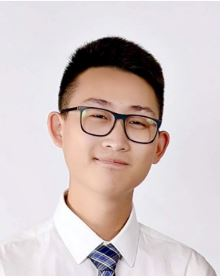
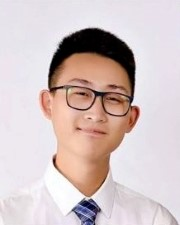
Add files via upload

diff --git a/index.html b/index.html
@@ -1,65 +1,59 @@
 <!DOCTYPE html>
-<html>
-
-<head>
-  <meta charset="utf-8">
-  <title>Angela Yu</title>
-  <link rel="stylesheet" href="css/styles.css">
-  <link href="https://fonts.googleapis.com/css?family=Merriweather|Montserrat|Sacramento" rel="stylesheet">
-  <link rel="icon" href="favicon.ico">
-</head>
-
-<body>
-  <div class="top-container">
-    <img class="top-cloud" src="images/cloud.png" alt="cloud">
-    <div class="title-text">
-      <h1>I'm Angela.</h1>
+<html lang="en" dir="ltr">
+  <head>
+    <meta charset="utf-8">
+    <title>Jonathan's Beautiful Website</title>
+    <link rel="stylesheet" href="css/styles.css">
+    <link rel="icon" href="favicon.ico">
+    <link href="https://fonts.googleapis.com/css2?family=Merriweather:wght@300&family=Montserrat&family=Sacramento&family=Satisfy&display=swap" rel="stylesheet">
+  </head>
+  <body>
+    <div class="top-container">
+      <img class="top-cloud" src="images/cloud.png" alt="cloud-img">
+      <h1>I'm Jonathan .</h1>
       <h2>a <span class="pro">pro</span>grammer.</h2>
+      <img class = "bottom-cloud" src="images/cloud.png" alt="cloud-img">
+      <img src="images/mountain.png" alt="mountain-img">
     </div>
-    <img class="bottom-cloud" src="images/cloud.png" alt="cloud">
-    <img class="mountain" src="images/mountain.png" alt="mountain-img">
-  </div>
-
-  <div class="middle-container">
-    <div class="profile">
-      <img src="images/angela.png" alt="angela-profile-img">
-      <h2>Hello.</h2>
-      <p class="intro">I am an iOS and Web Developer. I'm the founder and CTO of The App Brewery. I ❤ coffee and brew my own beers.</p>
-    </div>
-    <hr>
-    <div class="skills">
-      <h2>My Skills.</h2>
-      <div class="skill-row">
-        <img class="code-img" src="https://media.giphy.com/media/3p50WGyUqeU5W/giphy.gif" alt="code-img">
-
-        <h3>Design & Development</h3>
-        <p>I started learning to code when I was 12 years old because I wanted to make my own video games. Over time, I have gained a wealth of experience designing and developing mobile and web applications.</p>
-
+    <div class="middle-container">
+      <div class="profile">
+        <img class = "profile-img" src="images/linkedin-profile.JPG" alt="jonathan-picture">
+        <h2>Hello.</h2>
+        <p class= "intro-text">I am an alum from Texas A&M University '20. Current web developer-in-training with ambition for creative design!</p>
       </div>
-      <div class="skill-row">
-        <img class="chilli-img" src="images/chillies.png" alt="chillies-img">
-
-        <h3>Hot Wings Challenge</h3>
-        <p>But my best skill is actually in eating hot wings. I am the undisputed queen of hot wing challenges. Ghost Peppers and Carolina Reapers are my favourite snacks.</p>
-
+      <hr></hr>
+      <div class="skills">
+        <h2>My Skills.</h2>
+        <div class="skill-row">
+          <img class="code-img" src="https://media.giphy.com/media/SpopD7IQN2gK3qN4jS/giphy.gif" alt="code-img">
+          <h3>Full Stack Development</h3>
+          <p>My love for UI/UX design originated from when I owned my first smartphone back in high school, the Samsung Galaxy s3. I am now looking to challenge myself in the field of web development and design with the goal of developing web applications in the future. </p>
+        </div>
+        <div class="skill-row">
+          <img class="pep-pizza" src="images/pep-pizza.png" alt="pep-pizza">
+          <h3>My Greatest Passion</h3>
+          <p>Despite my passion for exploring the ins and outs of web development, there is perhaps nothing I feel stronger about than the dislike for pineapple on pizza. The only "yellow" attribute that belongs on a pizza is a hefty layer of fresh mozarella cheese. </p>
+        </div>
+      </div>
+      <hr>
+      <div class="contact-me">
+        <h2>Get In Touch</h2>
+        <h3>For any inquiries.</h3>
+        <p class= "end-text">Have a project I can work on? Or any tips/advice? I'm always looking for feedback and guidance on how I can improve!</p>
+        <a class="btn" href="mailto:jonguolee@gmail.com">CONTACT ME</a>
       </div>
     </div>
-    <hr>
-    <div class="contact-me">
-      <h2>Get In Touch</h2>
-      <h3>If you love hot wings as much as I do.</h3>
-      <p class="contact-message">Love hot wings as much as I do? Let's talk about how awesome they are! We can code while we eat hot wings!</p>
-      <a class="btn" href="mailto:ilove@hotwings.com">CONTACT ME</a>
+
+
+    <div class="bottom-container">
+      <a class="footer-link" href="https://www.linkedin.com/in/jonathan-lee-14374414a/">LinkedIn</a>
+      <a class="footer-link" href="https://www.facebook.com/jonathan.lee.31105/">Facebook</a>
+      <a class="footer-link" href="https://twitter.com/glee_jon">Twitter</a>
+      <p class="copyright">© 2020 Jonathan Lee.</p>
     </div>
-  </div>
 
 
-  <div class="bottom-container">
-    <a class="footer-link" href="https://www.linkedin.com/in/angela-yu-963a584b/">LinkedIn</a>
-    <a class="footer-link" href="https://twitter.com/yu_angela">Twitter</a>
-    <a class="footer-link" href="https://www.appbrewery.co/">Website</a>
-    <p class="copyright">© 2018 Angela Yu @ The App Brewery.</p>
-  </div>
-</body>
+    </div>
 
+  </body>
 </html>

diff --git a/css/styles.css b/css/styles.css
@@ -8,32 +8,24 @@ body {
 h1 {
   color: #66BFBF;
   font-size: 5.625rem;
-  margin: 50px auto 0 auto;
-  font-family: 'Sacramento', cursive;
+  /* 100% = 16px, 1em = 16px */
+  line-height: 2;
+  margin: 50px auto 0;
+  font-family: 'Satisfy', cursive;
 }
 
 h2 {
-  color: #66BFBF;
   font-family: 'Montserrat', sans-serif;
   font-size: 2.5rem;
+  line-height: 2;
+  color: #66BFBF;
   font-weight: normal;
-  padding-bottom: 10px;
 }
 
 h3 {
-  color: #11999E;
   font-family: 'Montserrat', sans-serif;
-}
-
-p {
-  line-height: 2;
-}
-
-hr {
-  border: dotted #EAF6F6 6px;
-  border-bottom: none;
-  width: 4%;
-  margin: 100px auto;
+  color: #11999E;
+  font-weight: normal;
 }
 
 a{
@@ -47,8 +39,15 @@ a:hover {
   color: #EAF6F6;
 }
 
+hr {
+  border: dotted #7e8a97 10px;
+  border-bottom: none;
+  width: 4%;
+  margin: 100px auto;
+}
+
 .top-container {
-  background-color: #E4F9F5;
+  background-color: #faf3dd;
   position: relative;
   padding-top: 100px;
 }
@@ -58,83 +57,100 @@ a:hover {
 }
 
 .bottom-container {
-  background-color: #66BFBF;
+  background-color: #faf3dd;
   padding: 50px 0 20px;
-}
-
-.skill-row {
-  width: 50%;
-  margin: 100px auto 100px auto;
-  text-align: left;
 }
 
 .pro {
   text-decoration: underline;
 }
 
-.intro {
-  width: 30%;
+.profile {
   margin: auto;
-}
-
-.contact-message {
-  width: 40%;
-  margin: 40px auto 60px;
-}
-
-.copyright {
-  color: #EAF6F6;
-  font-size: 0.75rem;
-  padding: 20px 0;
 }
 
 .top-cloud {
   position: absolute;
   right: 300px;
-  top: 40px;
+  top: 50px;
 }
 
 .bottom-cloud {
   position: absolute;
-  left: 250px;
+  left: 300px;
   bottom: 300px;
+}
+
+.profile-img {
+  border-radius: 50%;
+}
+
+.skill-row {
+  width: 50%;
+  margin: auto;
+  margin-top: 100px;
+  margin-bottom: 100px;
+  text-align: left;
+  line-height: 2;
 }
 
 .code-img {
   width: 25%;
+  border-radius: 50%;
   float: left;
   margin-right: 30px;
 }
 
-.chilli-img {
-  width: 25%;
+.pep-pizza {
+  width: 20%;
+  border-radius: 50%;
   float: right;
   margin-left: 30px;
 }
 
+.intro-text {
+  margin: auto;
+  width: 30%;
+}
+
+.end-text {
+  margin: 50px auto;
+  width: 30%;
+}
+
+.copyright {
+  font-size: 12px;
+  color: black;
+  padding: 20px 0;
+}
+
 .btn {
-  background: #11cdd4;
-  background-image: -webkit-linear-gradient(top, #11cdd4, #11999e);
-  background-image: -moz-linear-gradient(top, #11cdd4, #11999e);
-  background-image: -ms-linear-gradient(top, #11cdd4, #11999e);
-  background-image: -o-linear-gradient(top, #11cdd4, #11999e);
-  background-image: linear-gradient(to bottom, #11cdd4, #11999e);
-  -webkit-border-radius: 8;
-  -moz-border-radius: 8;
+  background: #33B9B9;
+  background-image: -webkit-linear-gradient(top, #33B9B9, #2097C7);
+  background-image: -moz-linear-gradient(top, #33B9B9, #2097C7);
+  background-image: -ms-linear-gradient(top, #33B9B9, #2097C7);
+  background-image: -o-linear-gradient(top, #33B9B9, #2097C7);
+  background-image: linear-gradient(to bottom, #33B9B9, #2097C7);
+  -webkit-border-radius: 8px;
+  -moz-border-radius: 8px;
   border-radius: 8px;
+  color: #FFFFFF;
   font-family: 'Montserrat', sans-serif;
-  color: #ffffff;
   font-size: 20px;
-  padding: 10px 20px 10px 20px;
+  padding: 20px;
   text-decoration: none;
 }
 
 .btn:hover {
-  background: #30e3cb;
-  background-image: -webkit-linear-gradient(top, #30e3cb, #2bc4ad);
-  background-image: -moz-linear-gradient(top, #30e3cb, #2bc4ad);
-  background-image: -ms-linear-gradient(top, #30e3cb, #2bc4ad);
-  background-image: -o-linear-gradient(top, #30e3cb, #2bc4ad);
-  background-image: linear-gradient(to bottom, #30e3cb, #2bc4ad);
+  border: solid #337FED 0;
+  background: #81D7F1;
+  background-image: -webkit-linear-gradient(top, #81D7F1, #35ADAD);
+  background-image: -moz-linear-gradient(top, #81D7F1, #35ADAD);
+  background-image: -ms-linear-gradient(top, #81D7F1, #35ADAD);
+  background-image: -o-linear-gradient(top, #81D7F1, #35ADAD);
+  background-image: linear-gradient(to bottom, #81D7F1, #35ADAD);
+  -webkit-border-radius: 8px;
+  -moz-border-radius: 8px;
+  border-radius: 8px;
   text-decoration: none;
 }
